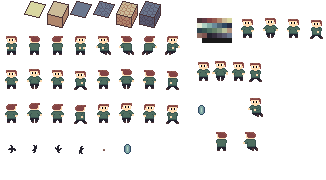
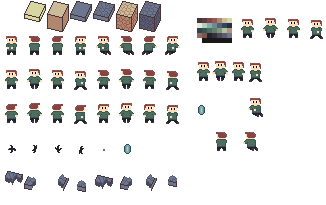
pretty falling floor animation

diff --git a/script/Tiles.js b/script/Tiles.js
@@ -69,7 +69,7 @@ ld49.tiles.FallingFloor = class extends Tile {
     }
 
     update(game, dt) {
-        this.fall -= dt * 4;
+        this.fall -= dt * 2;
         if (this.fall < 0) {
             this.fall = 0;
         }
@@ -77,7 +77,18 @@ ld49.tiles.FallingFloor = class extends Tile {
 
     draw(renderer) {
         if (this.fall > 0) {
-            renderer.draw(this.icon, this.x, this.y, 3 * (this.fall - 1) - 1);
+            const [dx1, dy1] = debrisOffset(2, -4);
+            const [dx2, dy2] = debrisOffset(-4, 0);
+            const [dx3, dy3] = debrisOffset(4, 0);
+            const [dx4, dy4] = debrisOffset(1, 5);
+            const p1 = Math.max(0, (1 - this.fall) * 8);
+            const p2 = Math.max(0, (1 - this.fall) * 7 - 4);
+            const p3 = Math.max(0, (1 - this.fall) * 8 - 2.5);
+            const p4 = Math.max(0, (1 - this.fall) * 6 - 1.3);
+            if (p1 < 3) renderer.draw(44, this.x + dx1, this.y + dy1, -1 - p1);
+            if (p2 < 3) renderer.draw(45, this.x + dx2, this.y + dy2, -1 - p2);
+            if (p3 < 3) renderer.draw(46, this.x + dx3, this.y + dy3, -1 - p3);
+            if (p4 < 3) renderer.draw(47, this.x + dx4, this.y + dy4, -1 - p4);
         }
     }
 
@@ -148,3 +159,7 @@ ld49.tiles.OutsideVoid = class extends Tile {
 
     draw(renderer) {}
 };
+
+function debrisOffset(x, y) {
+    return [(13 * x + 6 * y) / 213, (x - 5 * y) / 71];
+}

diff --git a/ideas.md b/ideas.md
@@ -6,7 +6,7 @@ todo:
 * ~~remember unlocked levels/scores~~
 * ~~throw hook animation~~
 * ~~pull animation~~
-* nice floor break animation
+* ~~nice floor break animation~~
 * nice wall break animation
 * sounds
     * floor crack
